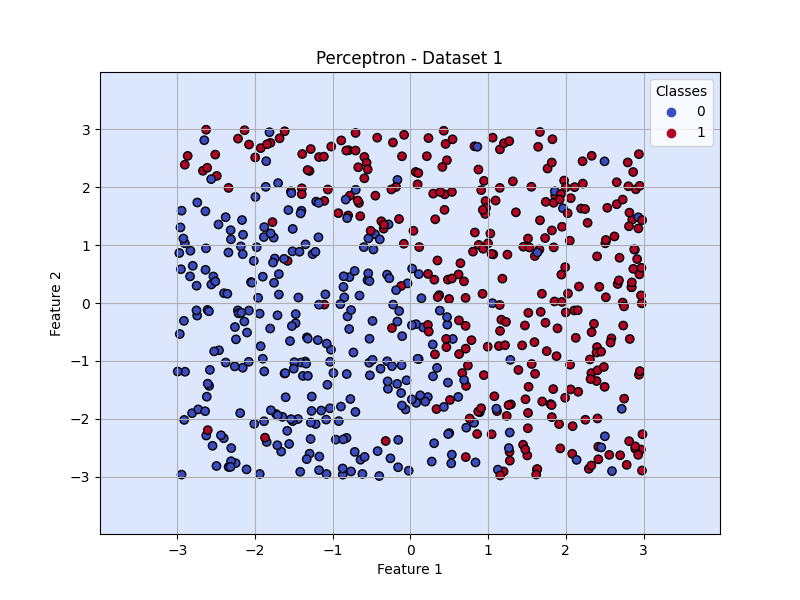
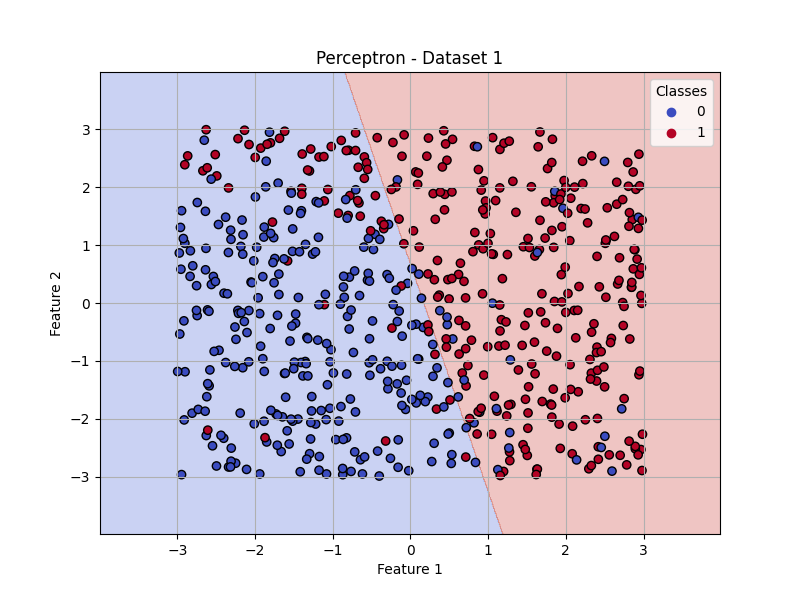
upd

Changed region(s): [[0.4062, 0.12, 0.9062, 0.9]]

diff --git a/level2-models/lazyhusky26/model_comparison.py b/level2-models/lazyhusky26/model_comparison.py
@@ -7,7 +7,6 @@ import matplotlib.pyplot as plt
 import os
 
 
-# 1. Linear Regression with Gradient Descent
 class LinearRegressionGD:
     def __init__(self, learning_rate=0.01, num_iterations=1000):
         self.learning_rate = learning_rate
@@ -36,42 +35,46 @@ class LinearRegressionGD:
         accuracy = accuracy_score(y, np.round(predictions))
         return accuracy
 
-# 2. Perceptron
+
 class Perceptron:
     def __init__(self, learning_rate=0.1, num_iterations=1000):
         self.learning_rate = learning_rate
         self.num_iterations = num_iterations
-    
+
     def fit(self, X, y):
         self.weights = np.zeros(X.shape[1])
         self.bias = 0
         start_time = time.time()
-        
+
         for _ in range(self.num_iterations):
             for i in range(len(X)):
-                prediction = np.dot(X[i], self.weights) + self.bias
-                if y[i] * prediction <= 0:
-                    self.weights += self.learning_rate * y[i] * X[i]
-                    self.bias += self.learning_rate * y[i]
-        
+                prediction = self._predict_raw(X[i])
+                predicted_label = 1 if prediction >= 0 else 0
+                update = y[i] - predicted_label
+                self.weights += self.learning_rate * update * X[i]
+                self.bias += self.learning_rate * update
+
         self.time_to_convergence = time.time() - start_time
-    
+
+    def _predict_raw(self, x):
+        return np.dot(x, self.weights) + self.bias
+
     def predict(self, X):
-        return np.sign(np.dot(X, self.weights) + self.bias)
-    
+        return np.where(self._predict_raw(X) >= 0, 1, 0)
+
     def score(self, X, y):
         predictions = self.predict(X)
         accuracy = accuracy_score(y, predictions)
         return accuracy
 
-# 3. Load Data (assuming data is in CSV format)
+
 def load_data(file_path):
     data = pd.read_csv(file_path)
-    X = data.iloc[:, :-1].values  # features
-    y = data.iloc[:, -1].values  # target
+    X = data.iloc[:, :-1].values
+    y = data.iloc[:, -1].values
     return X, y
 
-# 4. Evaluate models and log metrics
+
 def evaluate_model(model, X, y, dataset_name):
     start_time_per_prediction = time.time()
     model.fit(X, y)
@@ -92,14 +95,14 @@ def evaluate_model(model, X, y, dataset_name):
 def plot_decision_boundary(model, X, y, title, filename):
     x_min, x_max = X[:, 0].min() - 1, X[:, 0].max() + 1
     y_min, y_max = X[:, 1].min() - 1, X[:, 1].max() + 1
-    h = 0.01  # step size in the mesh
+    h = 0.01
 
     xx, yy = np.meshgrid(np.arange(x_min, x_max, h),
                          np.arange(y_min, y_max, h))
     grid = np.c_[xx.ravel(), yy.ravel()]
     if isinstance(model, LinearRegressionGD):
         Z = np.round(model.predict(grid))
-    else:  # Perceptron
+    else:
         Z = model.predict(grid)
 
     Z = Z.reshape(xx.shape)
@@ -113,25 +116,20 @@ def plot_decision_boundary(model, X, y, title, filename):
     plt.legend(*scatter.legend_elements(), title="Classes")
     plt.grid(True)
     
-    # Create output folder if it doesn't exist
     os.makedirs("plots", exist_ok=True)
     plt.savefig(f"plots/{filename}")
     plt.close()
 
 
-# Example of running this code on two datasets
 dataset1 = r"C:\Personal\Code\Hacktober25\Enigma-AIML25\level2-models\datasets\binary_classification.csv"
 dataset2 = r"C:\Personal\Code\Hacktober25\Enigma-AIML25\level2-models\datasets\binary_classification_non_lin.csv"
 
-# Load datasets
 X1, y1 = load_data(dataset1)
 X2, y2 = load_data(dataset2)
 
-# Initialize models
 linear_regression = LinearRegressionGD()
 perceptron = Perceptron()
 
-# Evaluate models
 linear_regression_metrics_1 = evaluate_model(linear_regression, X1, y1, "dataset1_linear_regression")
 perceptron_metrics_1 = evaluate_model(perceptron, X1, y1, "dataset1_perceptron")
 
@@ -144,7 +142,6 @@ perceptron_metrics_2 = evaluate_model(perceptron, X2, y2, "dataset2_perceptron")
 plot_decision_boundary(linear_regression, X2, y2, "Linear Regression - Dataset 2", "linear_regression_dataset2.png")
 plot_decision_boundary(perceptron, X2, y2, "Perceptron - Dataset 2", "perceptron_dataset2.png")
 
-# 5. Analysis (in a markdown or text file)
 analysis = """
 ### Model Comparison Analysis
 

diff --git a/level2-models/lazyhusky26/analysis.md b/level2-models/lazyhusky26/analysis.md
@@ -4,12 +4,12 @@
 **Dataset 1 (Linearly Separable):**
 
 - Linear Regression Accuracy: 0.8716666666666667
-- Perceptron Accuracy: 0.52
+- Perceptron Accuracy: 0.8433333333333334
 
 **Dataset 2 (Non-Linearly Separable):**
 
 - Linear Regression Accuracy: 0.79125
-- Perceptron Accuracy: 0.50125
+- Perceptron Accuracy: 0.79625
 
 ### Observations:
 
